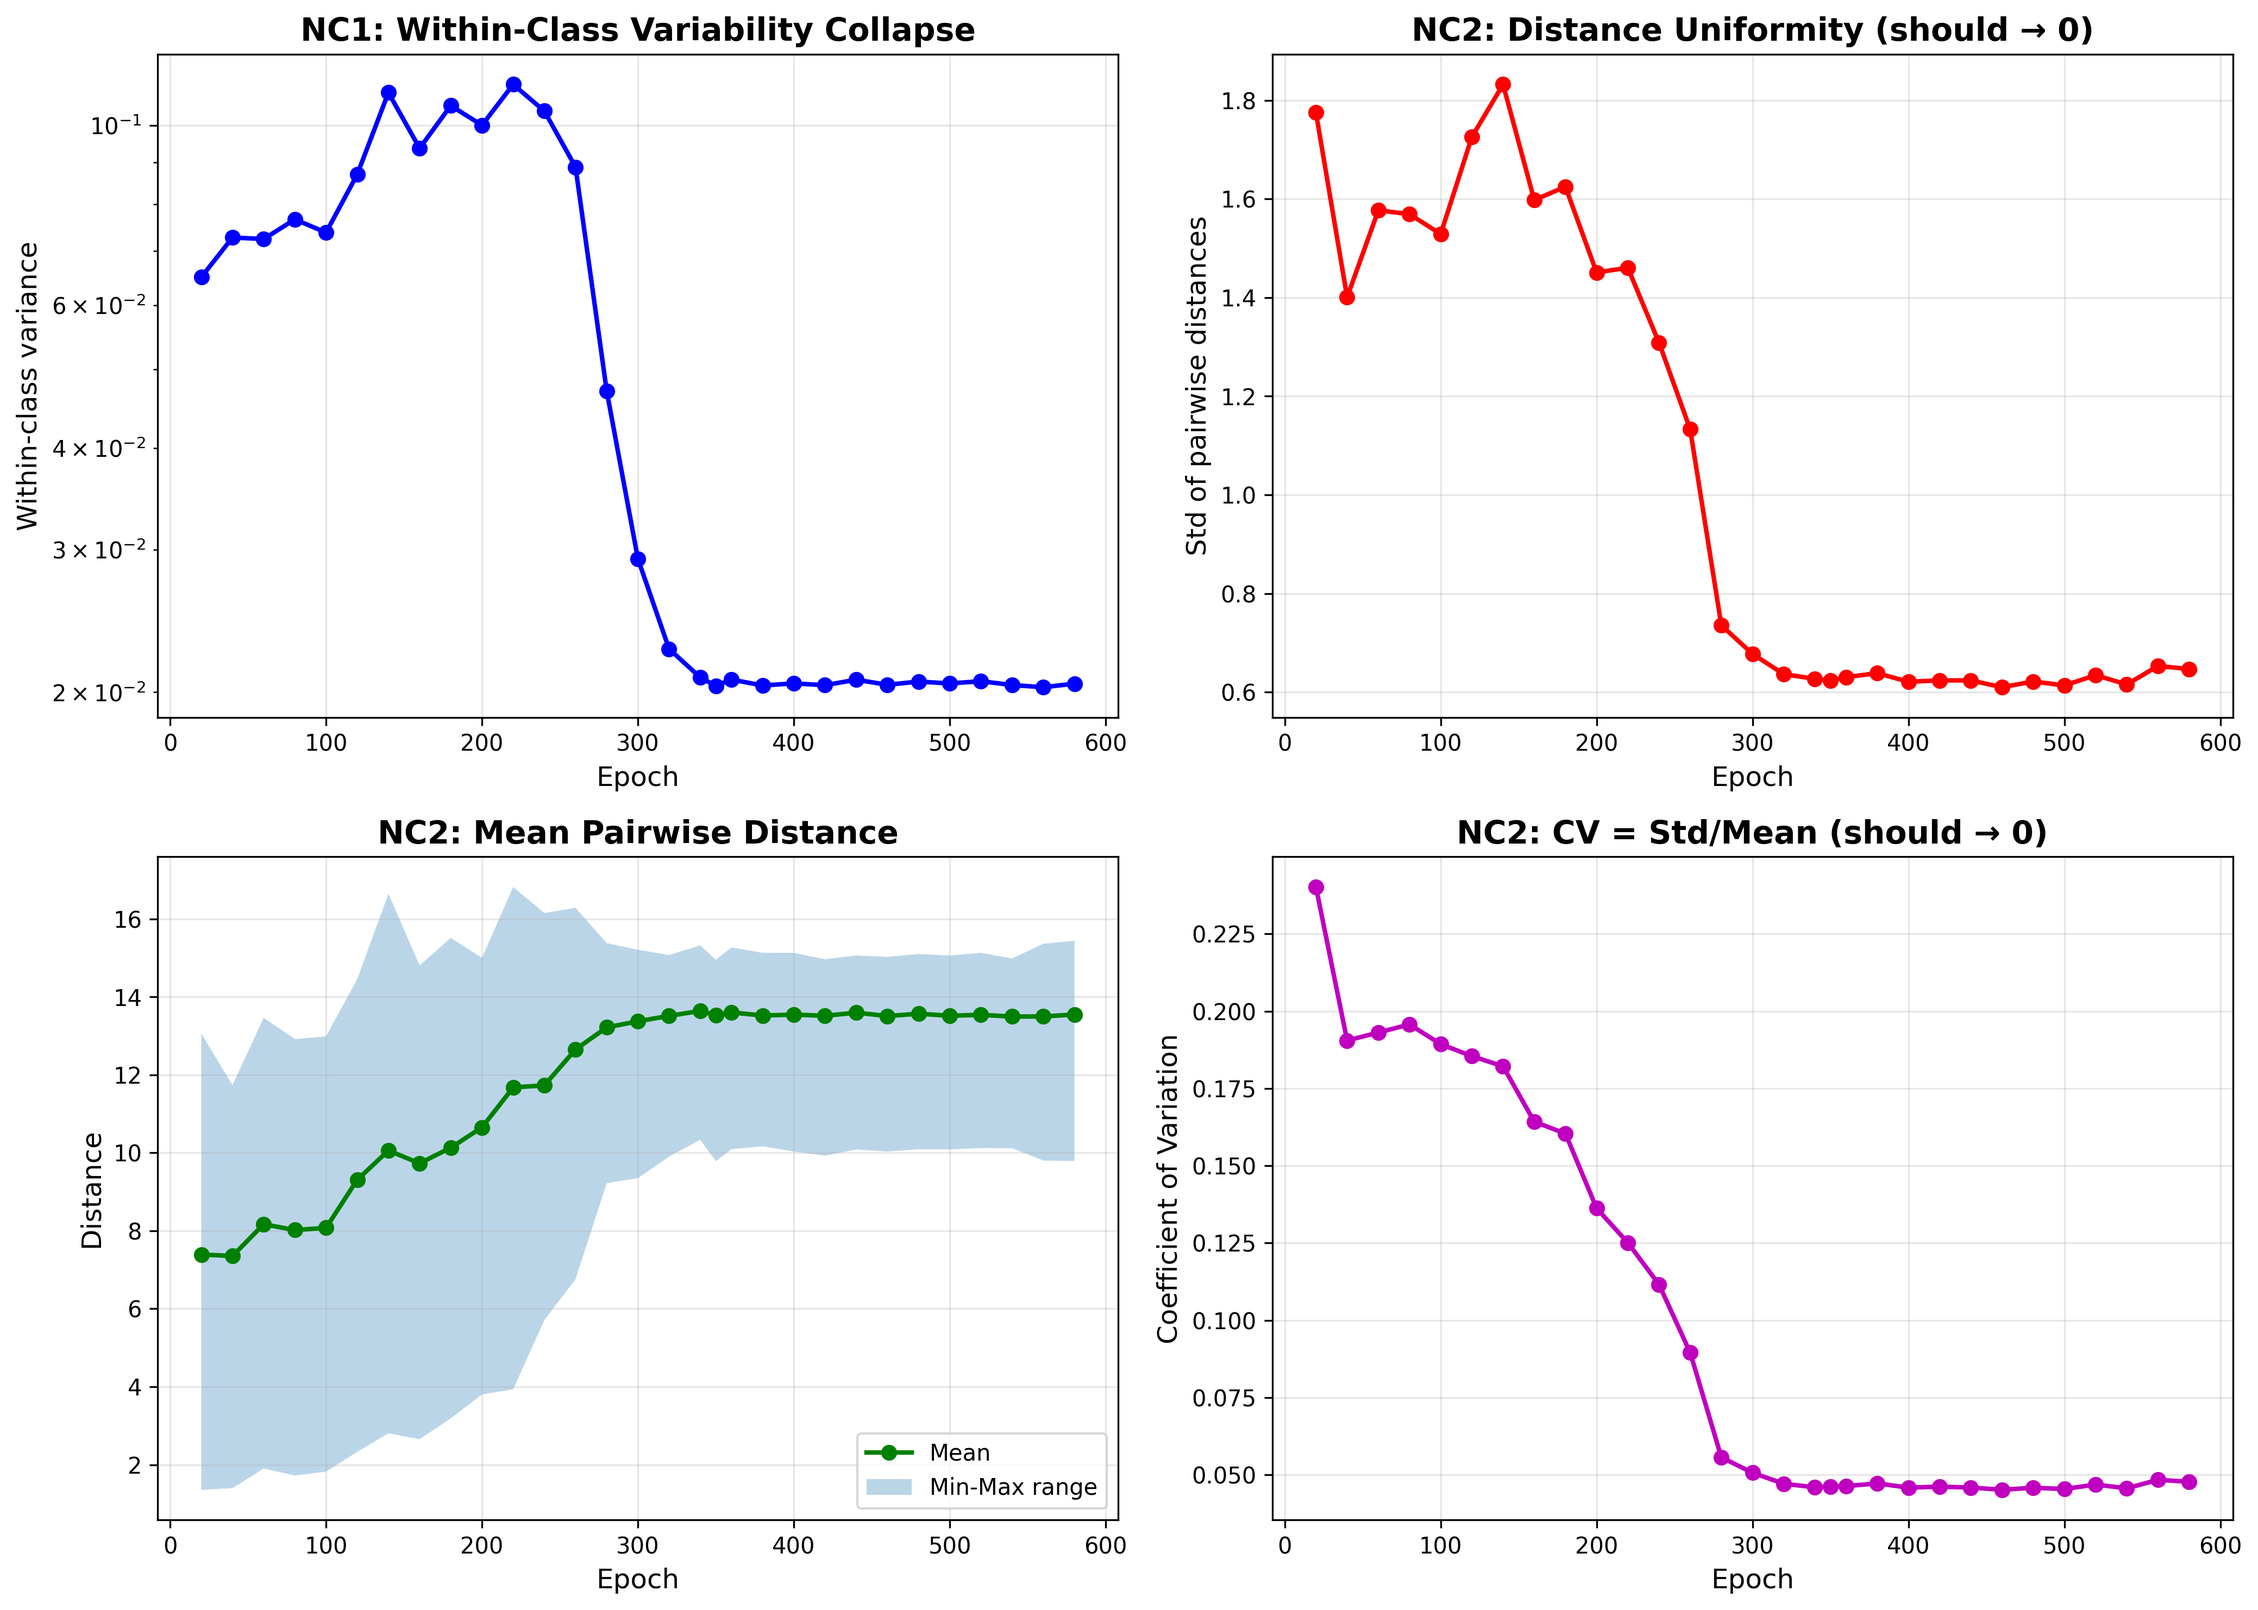
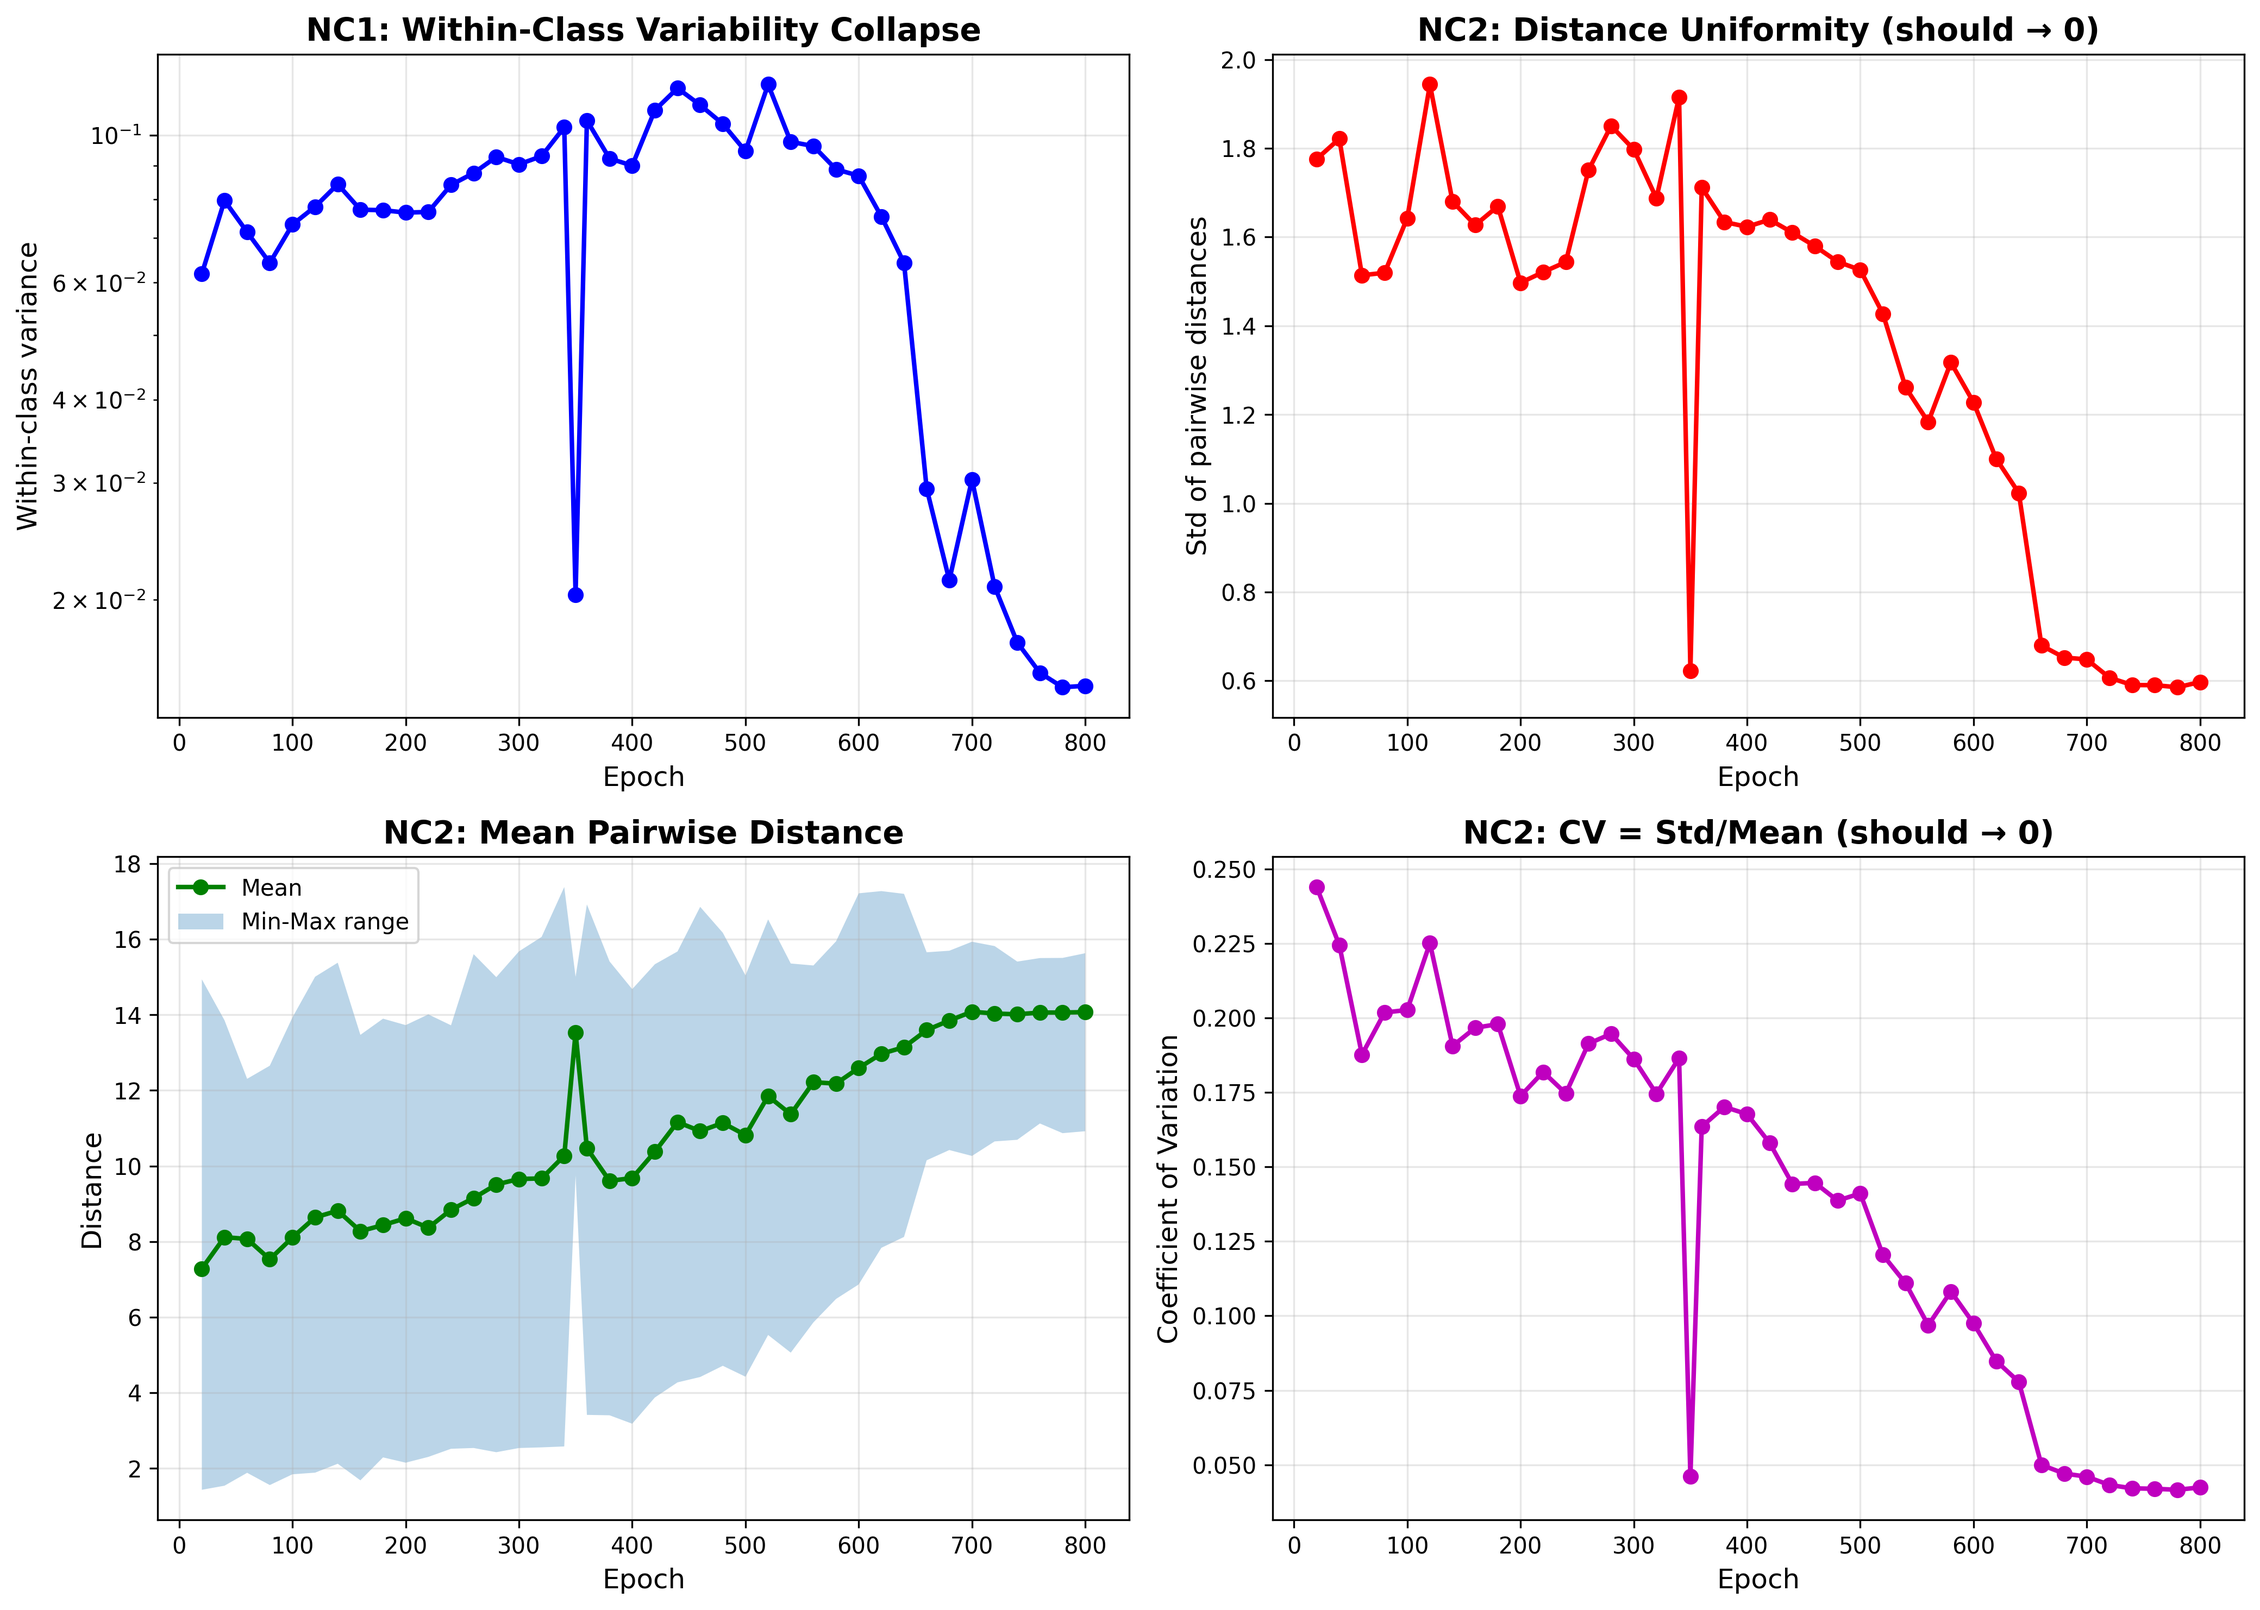
new training routine

diff --git a/src/train.py b/src/train.py
@@ -43,14 +43,18 @@ criterion = nn.CrossEntropyLoss()
 lr = 0.1
 weight_decay = 5e-4
 optimizer = optim.SGD(model.parameters(), lr=lr, momentum=0.9, weight_decay=weight_decay)
-# scheduler = optim.lr_scheduler.StepLR(optimizer, step_size=30, gamma=0.1)
 
-# num_epochs = 350
-num_epochs = 800
+num_epochs = 350
 
-scheduler = optim.lr_scheduler.CosineAnnealingLR(
+# scheduler = optim.lr_scheduler.CosineAnnealingLR(
+#     optimizer,
+#     T_max=num_epochs
+# )
+
+scheduler = torch.optim.lr_scheduler.MultiStepLR(
     optimizer,
-    T_max=num_epochs
+    milestones=[117, 233],  # 1/3 and 2/3 of 350
+    gamma=0.1
 )
 
 # resume_path = "checkpoints/resnet18_cifar100_epoch_350.pt"
